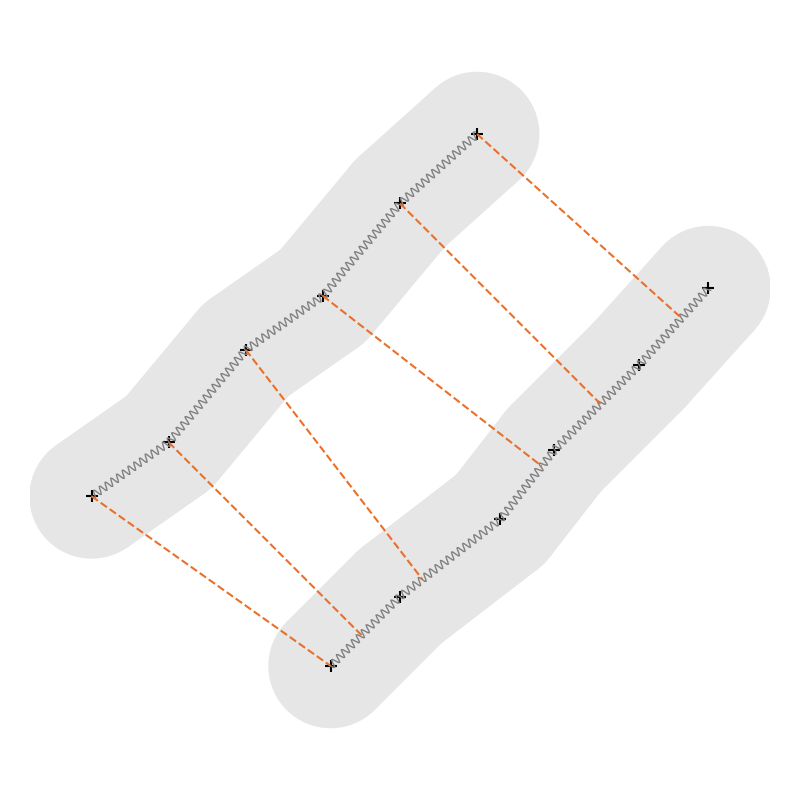
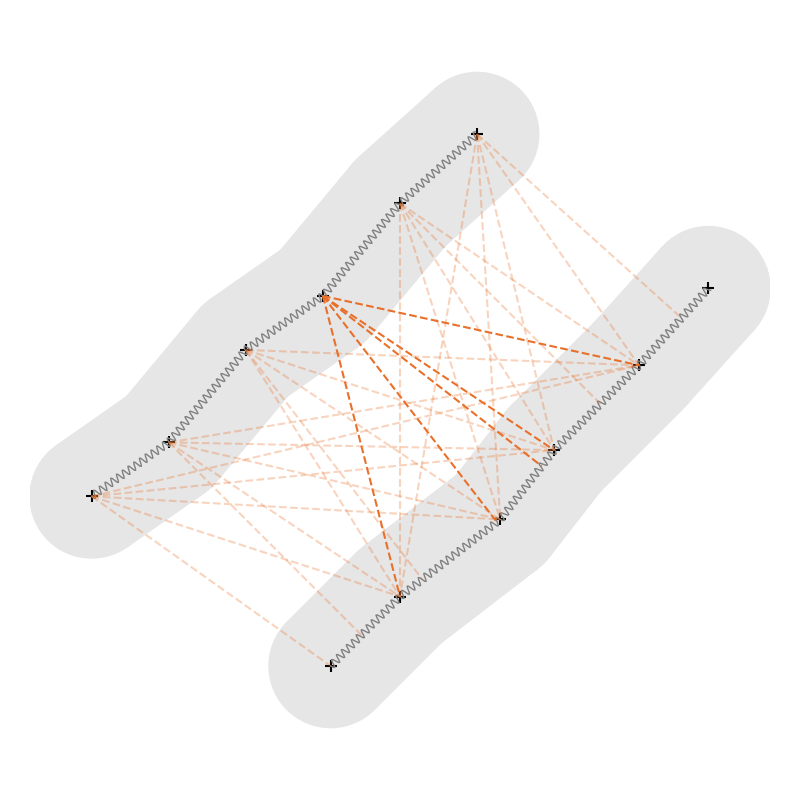
plot interaction connection between every vertex and closest segment

diff --git a/plots/mechanics_schematic.py b/plots/mechanics_schematic.py
@@ -141,11 +141,15 @@ def plot_cells_interacting(points1, points2, radius):
     __plot_cell_springs(ax, points1)
     __plot_cell_springs(ax, points2)
 
-    for p in points1:
-        closest = _closest_point_on_polygon(p, points2)
-        x = [p[0], closest[0]]
-        y = [p[1], closest[1]]
-        ax.plot(x, y, c=crm.plotting.COLOR5, linestyle="--")
+    for i, p in enumerate(points1):
+        for pi1, pi2 in zip(points2[1:], points2[:-1]):
+            closest = np.array(_closest_point_on_segment(p, pi1, pi2)[1])
+            # Plot partial if i != 3
+            alpha = 0.3 if i != 3 else 1.0
+            # closest = np.array(p) + 0.3 * (closest - p)
+            x = [p[0], closest[0]]
+            y = [p[1], closest[1]]
+            ax.plot(x, y, c=crm.plotting.COLOR5, linestyle="--", alpha=alpha)
 
     ax.scatter(points[:, 0], points[:, 1], s=80, marker="+", color="k")
 
